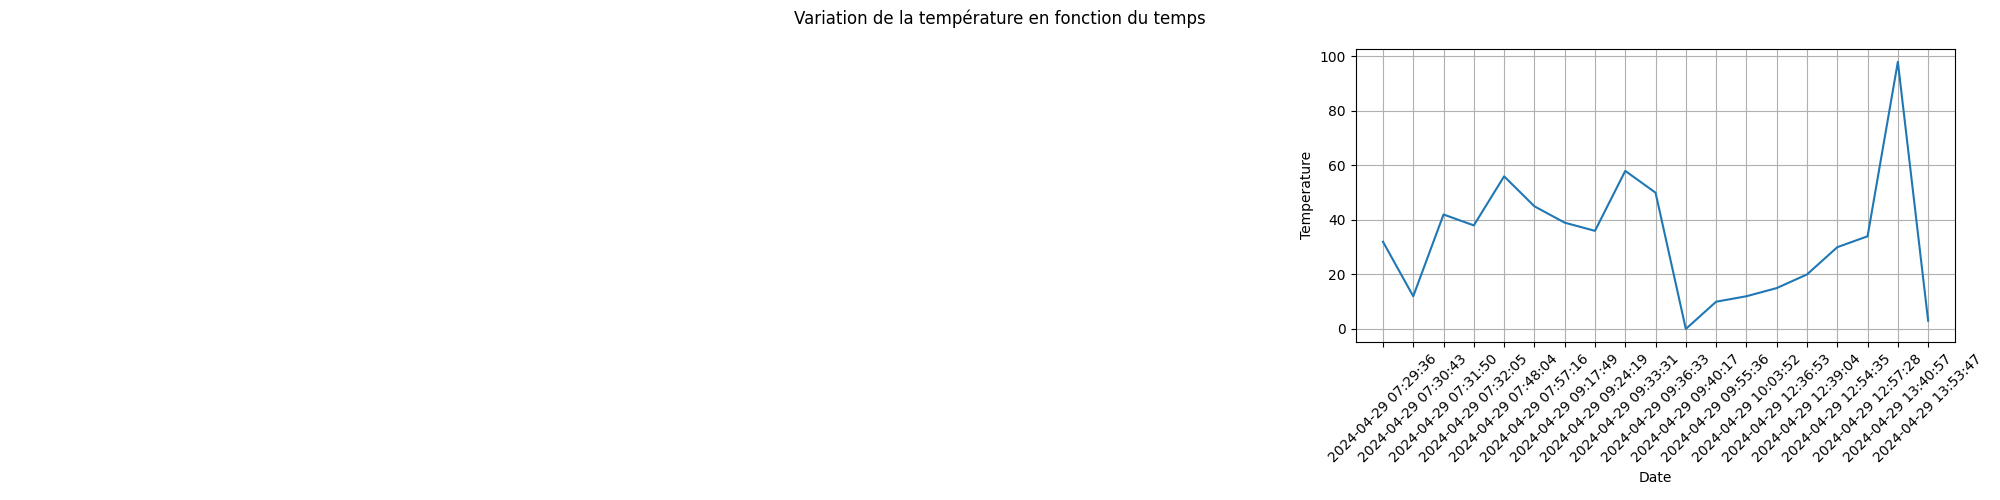
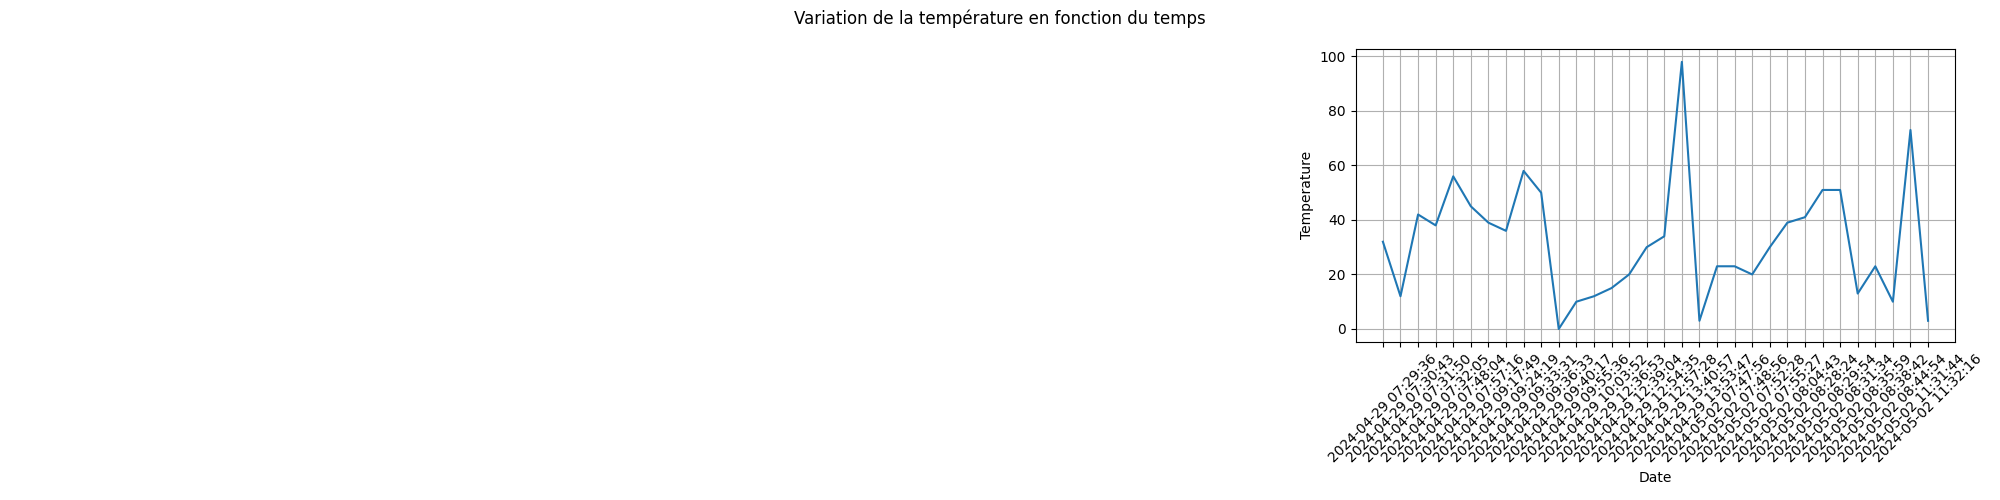
We can show the new matplotlib chart

Changed region(s): [[0.682, 0.12, 0.961, 0.66], [0.651, 0.69, 0.992, 0.93]]

diff --git a/client/index.html b/client/index.html
@@ -3,28 +3,48 @@
 <head>
     <meta charset="UTF-8">
     <meta name="viewport" content="width=device-width, initial-scale=1.0">
-    <title>Accueil</title>
+    <meta name="description" content="Weather Stations's Data">
+    <meta name="keywords" content="Weather, Data, Weather Data">
+    <meta name="author" content="Oscar Navarro">
+    <meta http-equiv="Cache-Control" content="no-cache, no-store, must-revalidate" />
+    <meta http-equiv="Pragma" content="no-cache" />
+    <meta http-equiv="Expires" content="0" />
+    
+    <title>Weather Stations</title>
 
     <!-- Tailwind CSS CDN -->
     <script src="https://cdn.tailwindcss.com"></script>
     
+    <!-- Custom CSS -->
+    <link rel="stylesheet" href="/static/css/styles.css">
+
     <!-- Google Charts CDN -->
-    <link rel="stylesheet" href="/static/styles.css">
     <script type="text/javascript" src="https://www.gstatic.com/charts/loader.js"></script>
 
 </head>
 <body>
-    <img src="static/img/charts/test.png" class="w-[100%]" alt="chart">
-   <div class="bg_images_special h-[100vh]">
+    
+   <div class="bg_images_special h-[100vh] relative">
+        <!-- Modal component-->
+        <div id="matplotlib_modal_component" class="hidden fixed z-10 inset-0 h-[100vh] w-[100vw] bg-modal-container">
+            <div class="w-full h-full flex justify-center items-center">
+                <img id="img_matplotlib_chart" src="" class="w-[70%] h-[30rem]" alt="chart">
+            </div>
+        </div>
+        <!-- Fin modal component-->
+
         <div class="flex h-[100vh] bg_degred">
             <div class="w-[calc(100vw-50rem)] h-[100vh]  flex justify-center items-center">
                 <div class="">
                     <div class="flex justify-center">
-                        <h1 id="h1_temp" class="text-white text-[10rem]">22</h1>
+                        <h1 id="h1_temp" class="text-white text-[10rem]">0</h1>
                         <p class="text-white text-[7rem]">°C</p>
                     </div>
-                    <div>
+                    <div class="w-full">
                         <h2 class="text-white text-[3.5rem] text-center">Dernière Mesure</h2>
+                        <div class="w-full flex justify-center mt-[2rem]">
+                            <button type="button" id="show_matplotlib_chart" class="text-white text-[1.4rem] rounded-[2rem] glassmorphism_bg p-[1.5rem] up-and-down-animation">Montrer le graphique fait avec matplotlib</button>
+                        </div>
                     </div>
                 </div>
             </div>
@@ -58,12 +78,12 @@
                     <div id="curve_chart" style="width: 100%; height: 500px" ></div>
                 </div>
                 
-               
             </div>
         </div>
    </div>
     
-    <script src="/static/js_code.js"></script>
+    <script src="/static/js/js_code.js"></script>
+    <script src="/static/js/handle_btn_show_chart.js"></script>
     <script type="text/javascript" async>
         google.charts.load('current');
       
@@ -119,21 +139,6 @@
     
         google.charts.setOnLoadCallback(() => drawVisualization(all_data));
     
-        function actualizarGrafico(data) {
-            // Filtrar los datos para obtener solo los datos que no existen en all_data
-            const newDataFiltered = data.filter((item) => {
-                const index = all_data.findIndex((item2) => item2[0] === item[0]);
-                return index === -1;
-            });
-            
-            console.log(newDataFiltered);
-            if (newDataFiltered.length === 0) return;
-    
-            drawVisualization(newDataFiltered);
-        }
-    
-        // Iniciar la actualización automática del gráfico cada segundo
-        setInterval(() => actualizarGrafico(all_data), 1000);
     </script>
 
     

diff --git a/client/static/js/js_code.js b/client/static/js/js_code.js
@@ -6,7 +6,7 @@ const td_class = "whitespace-nowrap px-6 py-4";
 
 // Function to get the data from the server
 const getData = async () => {
-    const response = await fetch('http://127.0.0.1:8000/get_all_data/');
+    const response = await fetch('/get_all_data/');
     const data = await response.json();
 
     if (!response.ok ) {
@@ -78,7 +78,7 @@ document.addEventListener('DOMContentLoaded', async () => {
     const tbody = document.querySelector('tbody');
     
     // Obtener datos iniciales
-    const initialData = await getData();
+    let initialData = await getData();
 
     // On va inverser les données pour avoir les dernières données en premier
     const initialDataReverse = initialData.reverse();
@@ -87,8 +87,9 @@ document.addEventListener('DOMContentLoaded', async () => {
     initialDataReverse.forEach(element => {
         all_data.push([element[6], element[7]]);
     });
+
     setInterval(async () => {
-        const newDataForAllData = await getData();
+        let newDataForAllData = await getData();
 
         // On va inverser les données pour avoir les dernières données en premier
         const newDataForAllDataReverse = newDataForAllData.reverse();
@@ -111,8 +112,9 @@ document.addEventListener('DOMContentLoaded', async () => {
 
     // Actualizar datos y tabla cada cierto intervalo de tiempo
     setInterval(async () => {
-        const newData = await getData(); // Obtener nuevos datos del servidor
+        let newData = await getData(); // Obtener nuevos datos del servidor
         
+
         // Manejar error si hay problema al obtener nuevos datos
         if (newData === "Error, could not get data from the server") {
             alert(newData);

diff --git a/client/static/js/handle_btn_show_chart.js b/client/static/js/handle_btn_show_chart.js
@@ -1,0 +1,37 @@
+
+document.addEventListener('DOMContentLoaded', function() {
+
+    // Get the button that opens the modal
+    const show_matplotlib_chart = document.getElementById('show_matplotlib_chart');
+
+    // Get the modal wich contains the matplotlib chart
+    const matplotlib_modal_component = document.getElementById('matplotlib_modal_component');
+
+    // Listen for click event on the button
+    show_matplotlib_chart.addEventListener('click', async function() {
+
+        // Get the matplotlib chart
+        const response = await fetch('/get_chart');
+
+        if(!response.ok) {
+            throw new Error(`HTTP error! status: ${response.status}`);
+        }
+
+        // Delete prop 'src' from the image tag
+        document.getElementById('img_matplotlib_chart').src = '';
+        // Set the prop 'src' from the image tag
+        document.getElementById('img_matplotlib_chart').src = 'static/img/charts/test.png';
+        
+        matplotlib_modal_component.classList.toggle('hidden');
+    });
+
+    // Listen for click event on the modal to close it
+    matplotlib_modal_component.addEventListener('click', function() {
+        
+        // Delete prop 'src' from the image tag
+        document.getElementById('img_matplotlib_chart').src = '';
+
+        // Close the modal
+        matplotlib_modal_component.classList.toggle('hidden');
+    });
+});

diff --git a/client/static/css/styles.css b/client/static/css/styles.css
@@ -3,7 +3,7 @@ tbody tr:nth-child(even) {
 }
 
 .bg_images_special {
-    background-image: url('./img/weather.jpg');
+    background-image: url('../img/weather.jpg');
     background-repeat: no-repeat;
     background-size: cover;
     background-attachment: fixed;
@@ -31,3 +31,23 @@ tbody tr:nth-child(even) {
 background: linear-gradient(10deg, rgba(2,0,36,0.43461134453781514) 31%, rgba(255,255,255,0) 66%);
 }
 
+.up-and-down-animation {
+  animation: up-and-down 1.5s infinite;
+}
+
+.up-and-down-animation:hover {
+  animation-play-state: paused;
+}
+
+@keyframes up-and-down {
+  0%, 100% {
+    transform: translateY(0);
+  }
+  50% {
+    transform: translateY(-20px);
+  }
+}
+
+.bg-modal-container{
+  background-color:rgba(0, 0, 0, 0.42);
+}

diff --git a/serveur/main.py b/serveur/main.py
@@ -55,6 +55,7 @@ query_result = selectAllStations()
 # Call the function chart_generator from the client
 chart_generator(query_result)
 
+
 @app.get("/",response_class=HTMLResponse)
 
 def root():
@@ -64,8 +65,15 @@ def root():
 
 @app.get("/get_all_data")
 def get_all_data():
+    # Call the function selectAllStations from the client
+    query_result = selectAllStations()
     return query_result
 
+@app.get("/get_chart")
+def get_chart():
+    # Call the function selectAllStations from the client
+    query_result = selectAllStations()
+    return chart_generator(query_result)
 
 @app.post("/send_data")
 async def send_data(request: Request): 
@@ -84,7 +92,7 @@ async def send_data(request: Request):
         result_two = insertStation(result['smc'], result['ville'], result['active'], result['frequence'], result['temperature'], result['humidite_sol'], result['humidite_air'], result['pluviosite'])
 
         if result_two:
-            return {"message": "Data inserted successfully" + str(result_two)}
+            return {"message": "Data inserted successfully " + str(result_two)}
         else:
             return {"message": "Failed to insert data"}
         

diff --git a/serveur/handle_bd_function.py b/serveur/handle_bd_function.py
@@ -26,8 +26,8 @@ def insertStation(smc,ville,active,fréquence,température,humidite_sol, humidit
         c.execute("INSERT INTO RELEVES (smc,température,humidité_sol ,humidité_air,pluviosité) VALUES (?,?,?,?,?)",(smc,température,humidite_sol, humidite_air,pluviosité))
 
         conn.commit()
-        # retornar el ultimo id insertado
 
+        # retornar el ultimo id insertado
         return c.lastrowid
         
 
